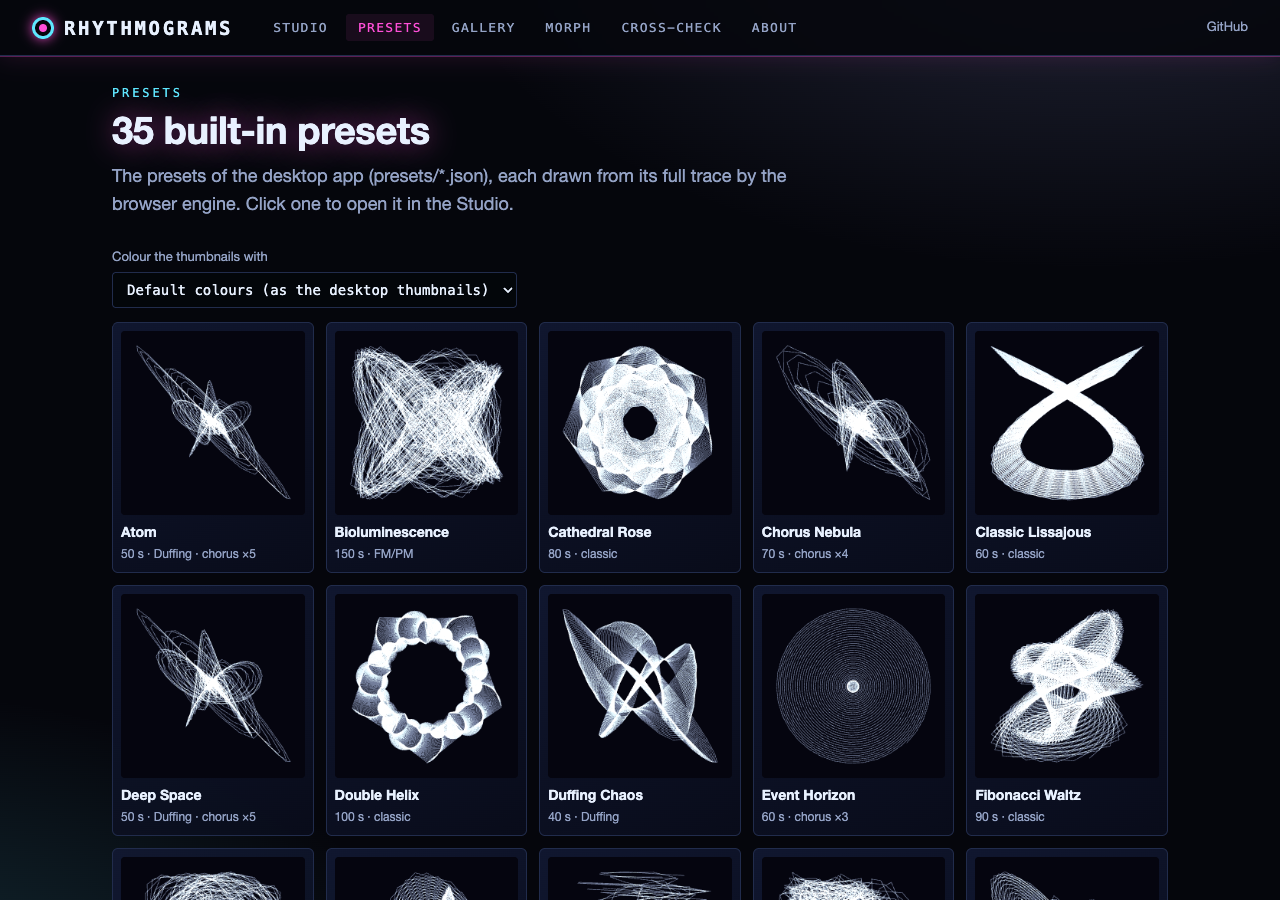
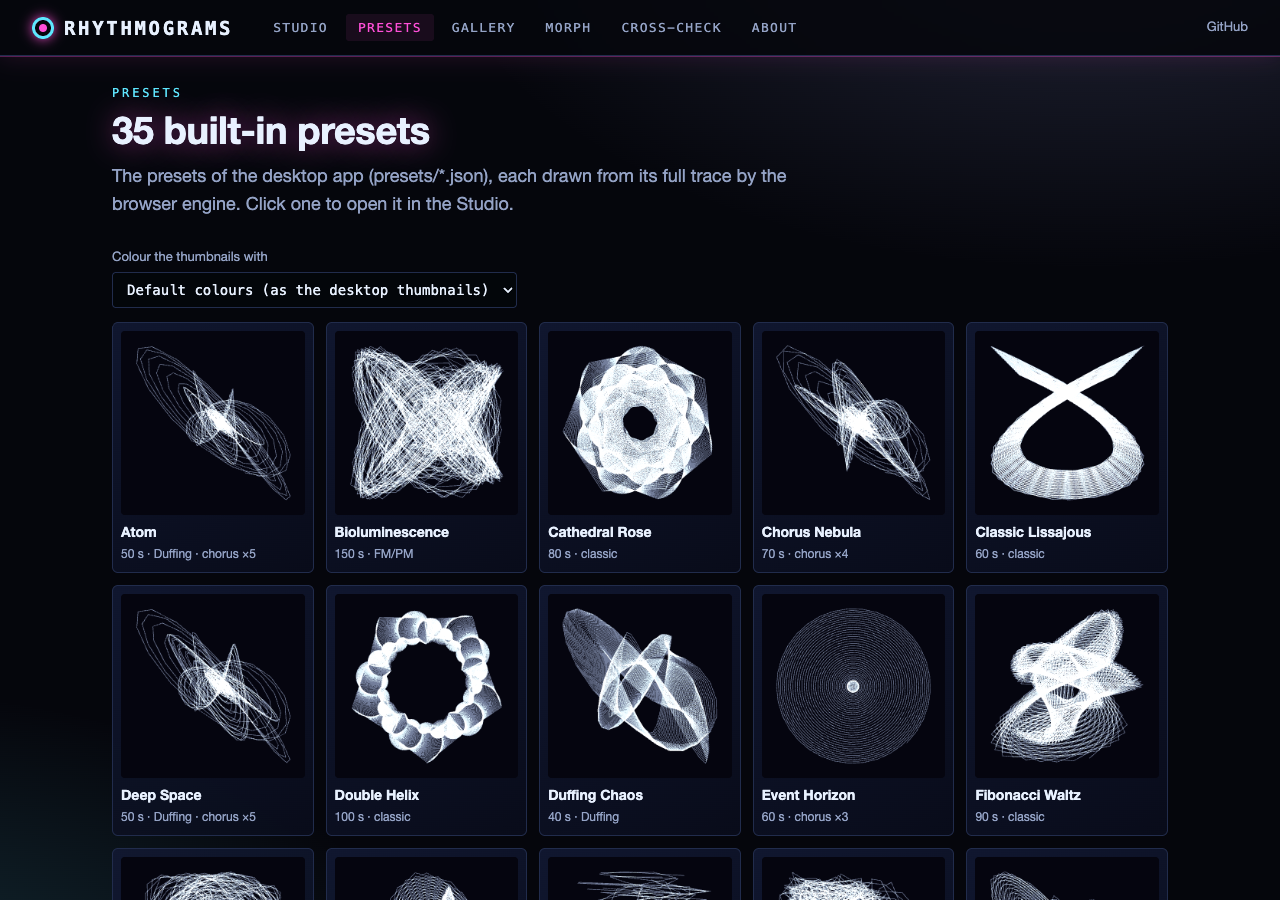
Update session log and preset screenshots after the Duffing fixes

Changed region(s): [[0.4375, 0.6533, 0.5625, 0.84], [0.0938, 0.3733, 0.2188, 0.56], [0.0938, 0.6844, 0.2188, 0.84]]

diff --git a/SESSION_LOG.md b/SESSION_LOG.md
@@ -28,10 +28,19 @@ all four failed before the fixes):
 4. Animated 3D projection evaluated the Z pendulums on chunk-local time (0..0.3 s at an assumed 1000 Hz). Now the
    chunk's real sample times.
 
-**Open questions for George** (not changed):
-- `_compute_nonlinear` ignores each pendulum's phase and PM (starts every pendulum at x=0, v=A·ω); with any Duffing
-  pendulum all four go through RK4. Using the phase would change the Atom / Deep Space / Duffing Chaos presets.
-- Continuous mode with a Duffing pendulum still restarts the integration every chunk (unbounded chunks); the web
-  replays the full trace instead.
-- README says "34 Built-in Presets"; there are 35 files: `presets/george1.json` has no name (shown as "George1") and
-  carries colour/effects settings that the Preset tab ignores. Keep it as a preset, name it, or move it?
+**Open questions for George**: answered the same day, see below.
+
+## 2026-11-11 (later): fixes approved by George
+
+Each in its own "Fix ..." commit, with regression tests in `tests/test_core_fixes.py` that failed first; the JS engine
+(`web/static/harmonograph_engine.js`) and `tests/fixtures/engine_fixture.json` were updated to match:
+5. Duffing pendulums now honour phase and PM: released at x0 = A·sin(phase), v0 = A·ω·cos(phase); PM rotates the state
+   in the (x, v/ω) plane by pm(t) (exactly A·sin(ωt + phase + pm(t)) for a linear spring). Configurations with phase 0
+   and no PM are unchanged; Atom, Deep Space and Duffing Chaos change (docs/img/presets.png regenerated).
+6. Continuous mode with a Duffing pendulum continues the RK4 integration past the end of the trace (state and
+   normalisation are kept from `compute_full`), instead of restarting every chunk. The web Studio does the same now
+   (it used to replay the full trace).
+7. `presets/george1.json` is named "Coiled Spring" (a fast ~9 Hz near-unison X pair against a slow ~1.5 Hz Y pair:
+   horizontal loops stacked vertically like a spring seen side-on); README counts 35 presets.
+Checks: pytest 58 passed (55 passed + 3 skipped without PyQt6), node 71 + 31 checks, screenshots static and on
+port 8122 all ok, desktop continuous mode on Atom checked offscreen (runs past its 50 s duration).
